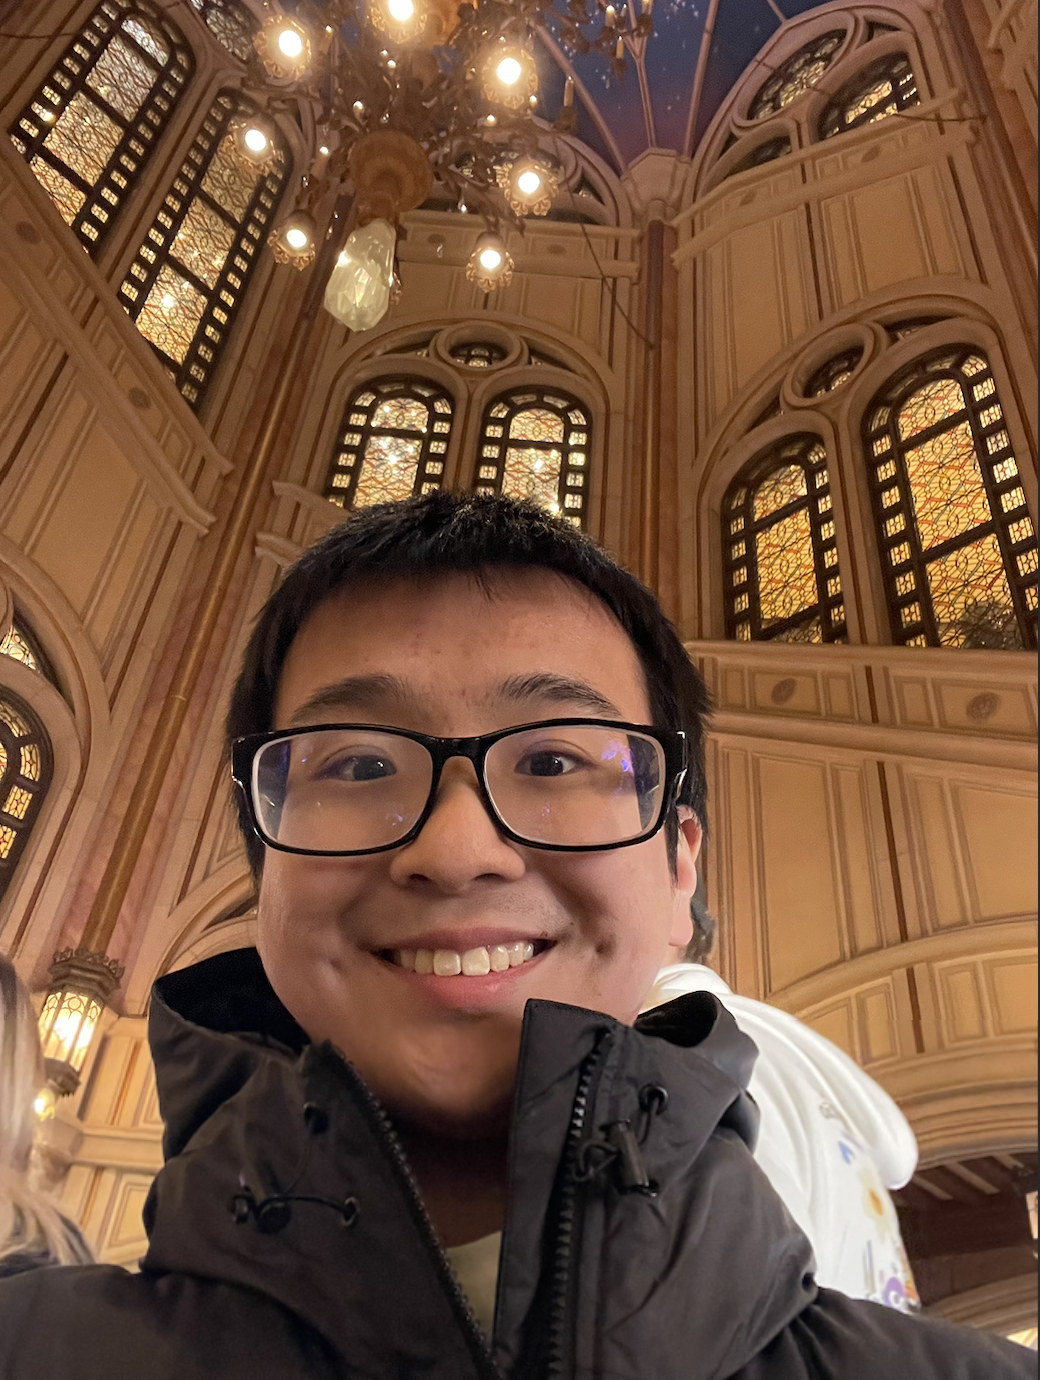
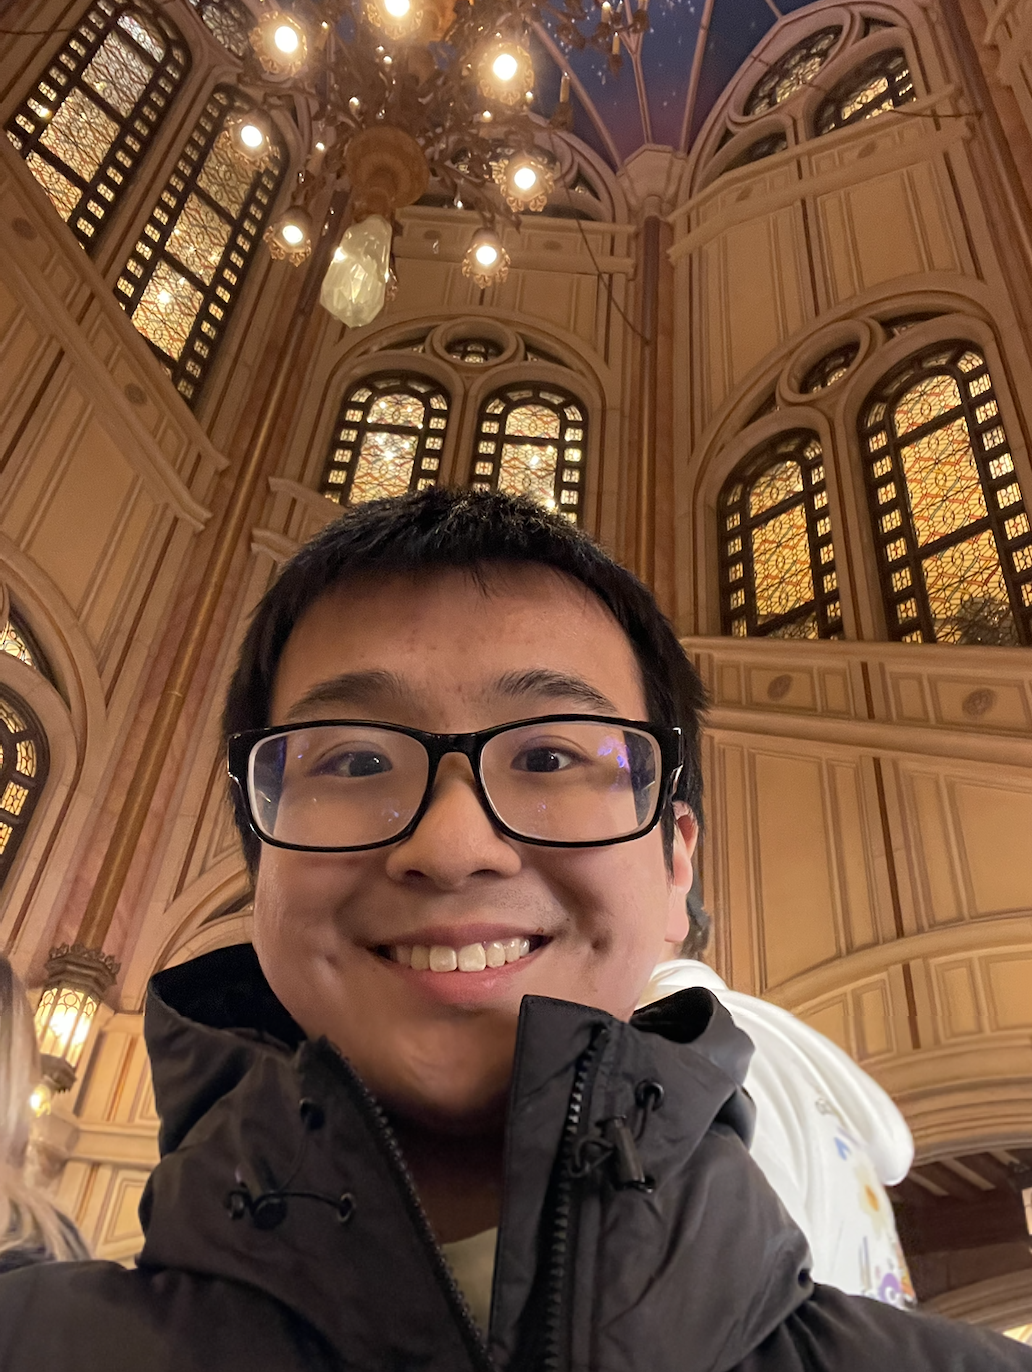
added links, aboutme, projects, and contact info

diff --git a/index.html b/index.html
@@ -3,12 +3,35 @@
 <head>
     <meta charset="UTF-8">
     <meta name="viewport" content="width=device-width, initial-scale=1.0">
-    <title>My Website</title>
+    <title>Jayden Lin</title>
 </head>
 <body>
     <h1>Jayden Lin</h1>
     <img src="jaydenlin.png" alt="Jayden Lin" width="300">
     <h2>bing chilling 🍦</h2>
+    <a href="https://github.com/NewYorkImperialist">GitHub</a><br>
+    <a href="https://www.worldcubeassociation.org/persons/2026LINJ01">WCA Profile</a><br>
+    <a href="https://www.linkedin.com/in/jaydenlin1/">LinkedIn</a><br>
+
+    <h2>About Me</h2>
+    Sophomore at Northeastern University studying Mathematics and Computer Science<br>
+    <a href="coursework.html">Classes I've Taken</a><br>
+
+    <h2>Projects</h2>
+    <ul>
+        <li><a href="https://proveit.fly.dev">Prove It!</a></li> 
+        <li><a href="https://wave-length.fly.dev">Wavelength</a></li>
+        <li><a href="https://github.com/NewYorkImperialist/fly-simulator">Fly Brain Simulator </a></li>
+        <li><a href="https://github.com/NewYorkImperialist/cubed-core">Rubik's Cube Computer Vision</a></li>
+        <li><a href="https://github.com/NewYorkImperialist/game-controller">DIY Video Game Controller</a></li>
+        <li><a href="https://github.com/TSVRN9/BLEh">DIY Bluetooth AirTag</a></li>
+    </ul>
+    More on my GitHub!
+
+    <h2>Contact</h2>
+    Boston, MA <br> 
+    Email: lin.jayd@northeastern.edu
+
 </body>
 </html>
 

diff --git a/coursework.html b/coursework.html
@@ -1,0 +1,35 @@
+<!DOCTYPE html>
+<html lang="en">
+<head>
+    <meta charset="UTF-8">
+    <meta name="viewport" content="width=device-width, initial-scale=1.0">
+    <title>My Coursework</title>
+</head>
+<body>
+    <h1>Coursework</h1>
+    Classes I've taken at Northeastern or tested out of. Courses >= 5000 are graduate level.
+    <h2>Mathematics 🍦</h2>
+    MATH1341: Calculus 1 <br>
+    MATH1342: Calculus 2 <br>
+    MATH1465: Intensive Mathematical Reasoning <br>
+    MATH2321: Calculus 3 <br>
+    MATH2341: Differential Equations & Linear Algebra <br>
+    MATH3090: Explorations of Modern Mathematics <br>
+    MATH3181: Advanced Probability & Statistics <br>
+    MATH3257: Advanced Group Theory <br>
+    MATH3527: Number Theory 1 <br>
+    MATH3545: Graph Theory <br>
+    MATH4571: Advanced Linear Algebra <br>
+    MATH5101: Analysis 1 <br>
+
+    <h2>Computer Science 👺</h2>
+    CS2000: Introduction to Computer Science <br>
+    CS2100: Program Design and Implementation 1 <br>
+    CS2800: Logic and Computation <br> 
+    CS3520: Programming in C++ <br>
+    CS3800: Theory of Computation <br> 
+
+
+</body>
+</html>
+
